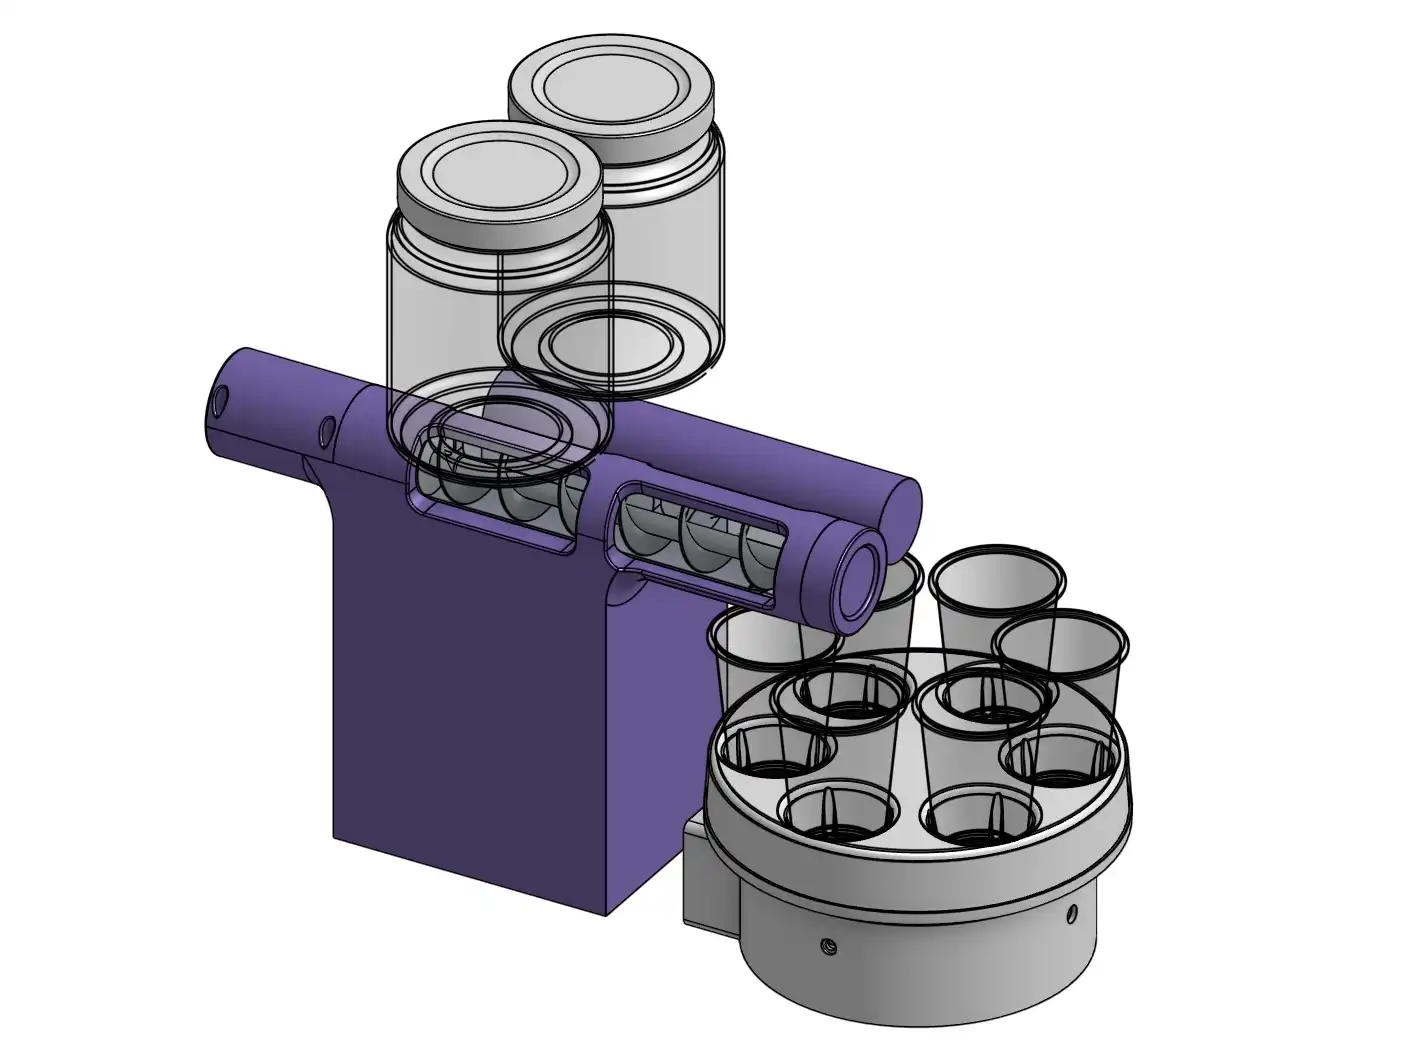
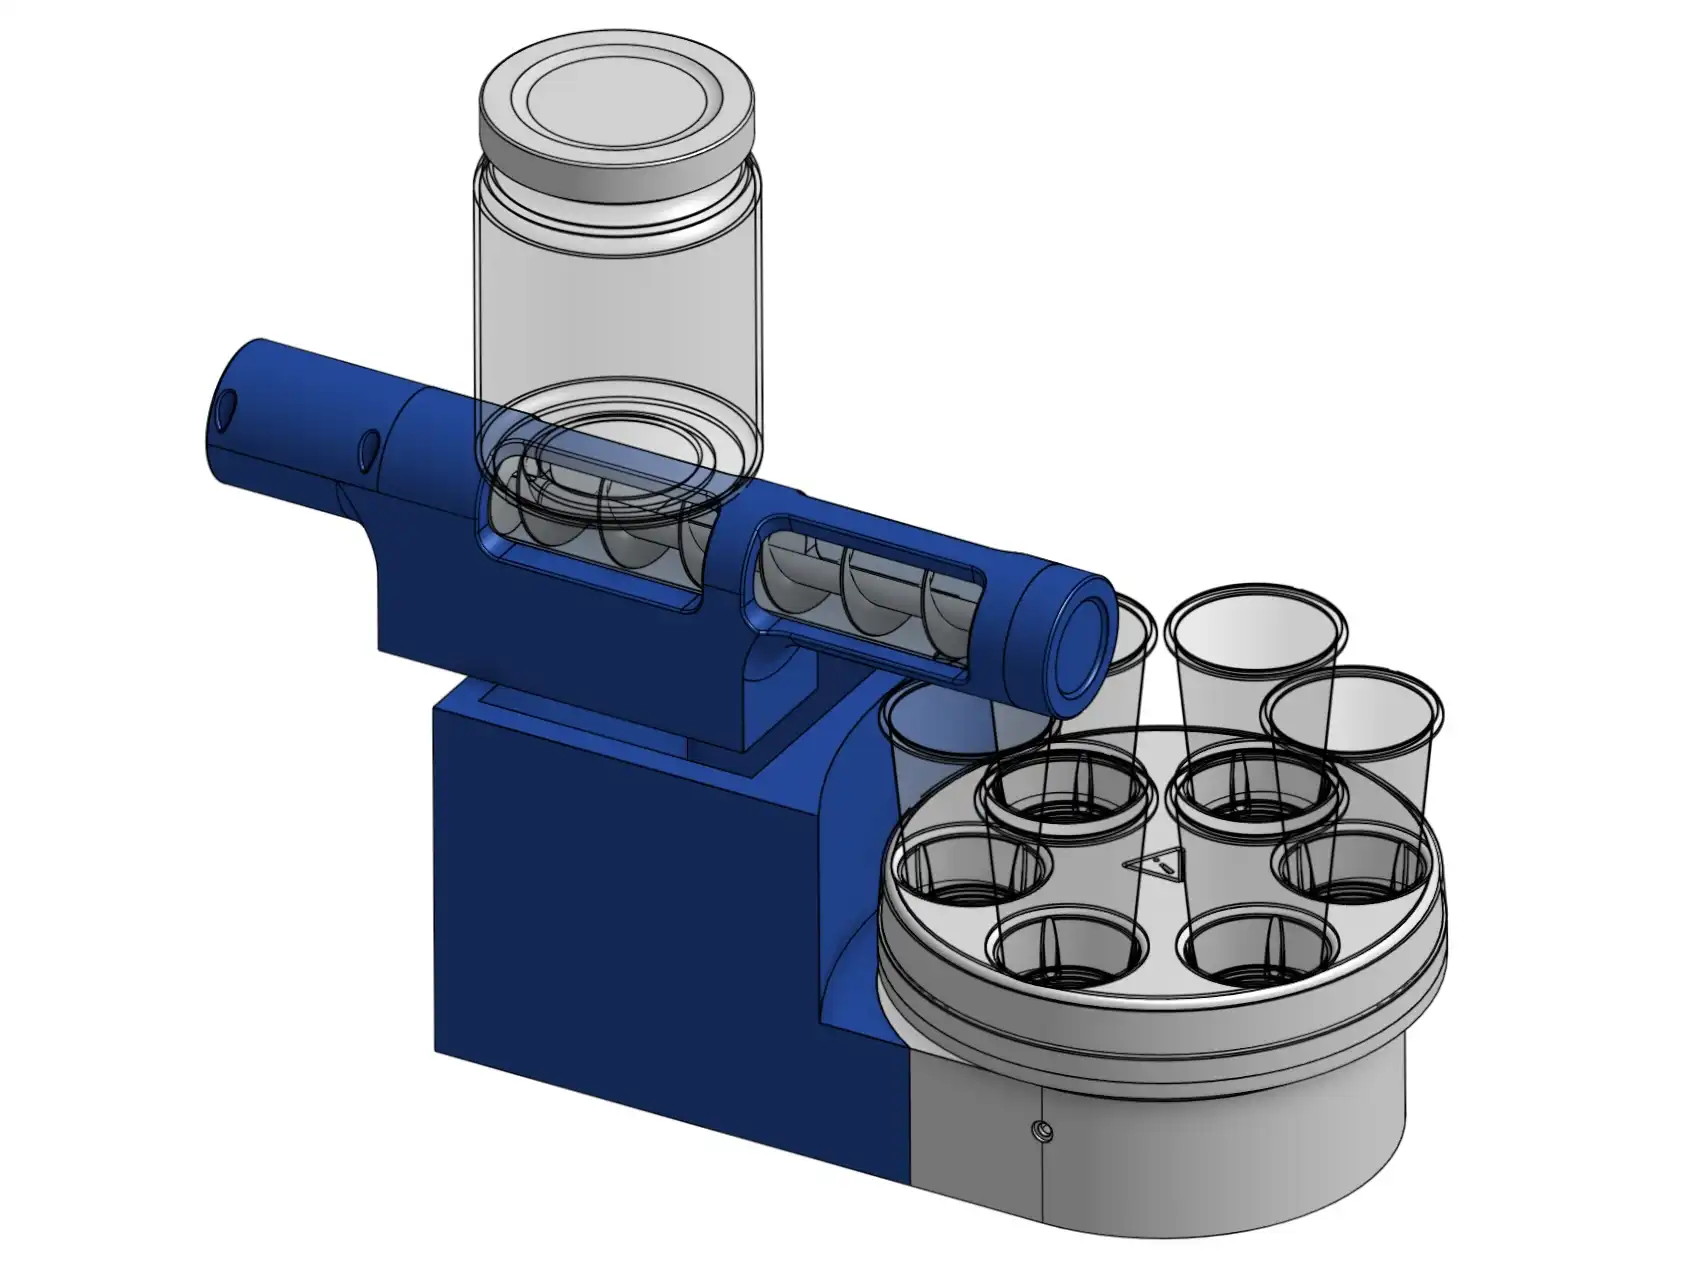
Quick updates
- Changed the photo for the dispenser
- Adjusted the resume button
- Renamed Drum Robot and Lunabotics role names

diff --git a/index.html b/index.html
@@ -75,7 +75,7 @@
         <p class="about-body">I'm a hands-on engineer with experience spanning mechanical design, FEA, software, and electronics. Through coursework and club projects, I've engineered a front-end loader bucket for NASA's Lunabotics challenge, designed a topology-optimized bike brake caliper, and built a solenoid-driven fret-pressing mechanism for a guitar robot.</p>
 <p class="about-body">Outside of the shop, I play guitar, draw, and animate. I also have a background in technical theatre, where I stage managed and co-designed sets and award-winning lighting.</p><div style="margin-top:2rem; text-align:center;">
           <a href="https://drive.google.com/file/d/10modutQS97mi8qizILJnUyyUBzEMVTCt/view?usp=sharing" target="_blank" rel="noopener noreferrer" class="btn-arrow">
-            View résumé
+            View resume
             <svg width="14" height="14" viewBox="0 0 14 14" fill="none" stroke="currentColor" stroke-width="1.5" stroke-linecap="round" stroke-linejoin="round">
               <path d="M2 12L12 2M12 2H5M12 2v7"/>
             </svg>

diff --git a/site.js b/site.js
@@ -32,7 +32,7 @@ document.addEventListener('DOMContentLoaded', () => {
 
   /* "Last updated" stamp — guarded since not every page has this element */
   const lastUpdatedEl = document.getElementById('lastUpdated');
-  if (lastUpdatedEl) lastUpdatedEl.textContent = 'August 27, 2026'; /* --------------------------- Update this!! */
+  if (lastUpdatedEl) lastUpdatedEl.textContent = 'August 29, 2026'; /* --------------------------- Update this!! */
 
   /* Index page scripts */
   if (document.body.classList.contains('index-page')) {

diff --git a/drum-robot/index.html b/drum-robot/index.html
@@ -42,7 +42,7 @@
         <div class="proj-meta">
           <div><p class="meta-label">Year</p>   <p class="meta-value">2024 - 2026</p></div>
           <div><p class="meta-label">Status</p> <p class="meta-value">Complete</p></div>
-          <div><p class="meta-label">Role</p>   <p class="meta-value">Electrical Lead &amp; Mechanical Team Member</p></div>
+          <div><p class="meta-label">Role</p>   <p class="meta-value">Electrical Lead</p></div>
         </div>
       </div>
 

diff --git a/lunabotics/index.html b/lunabotics/index.html
@@ -42,7 +42,7 @@
         <div class="proj-meta">
           <div><p class="meta-label">Year</p>   <p class="meta-value">2025 – 2026</p></div>
           <div><p class="meta-label">Status</p> <p class="meta-value">Complete</p></div>
-          <div><p class="meta-label">Role</p>   <p class="meta-value">Excavation Bucket Lead</p></div>
+          <div><p class="meta-label">Role</p>   <p class="meta-value">Excavation Bucket Designer</p></div>
         </div>
       </div>
 
